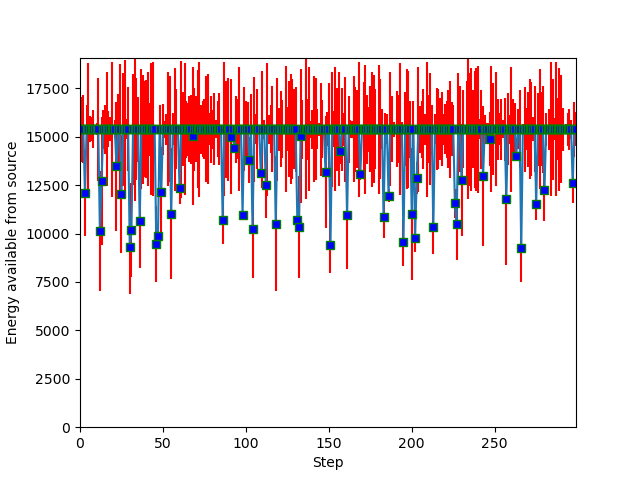
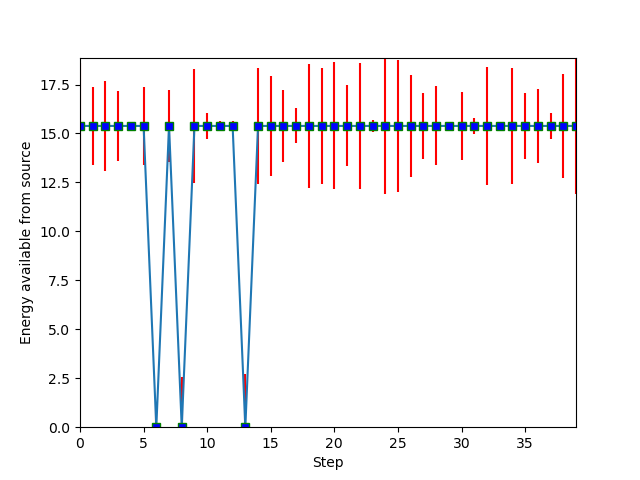
outage a funcionar

diff --git a/power_operative.py b/power_operative.py
@@ -150,7 +150,7 @@ class power_operative(geographic_agent.geographic_agent):
 					
 				#self.report_list_negotiated.append(self.report_list[1])
 			else:
-				redistribution = redistribute_energy()
+				redistribution = self.redistribute_energy()
 				#for i in sorted_by_utility:
 				#for ch in self.ch_list
 				#	ch, energy_wanted, utility= ch.negotiate_power_receive(energy_wanted)
@@ -176,11 +176,24 @@ class power_operative(geographic_agent.geographic_agent):
 					self.report_list_negotiated.append(i)
 
 			if len(self.report_list_negotiated) < 1:
-				aux = self.sorted_by_utility[0]
+				aux = [0,0,0,0,0]
+				count = 0
+				max = 0
+				min = float("inf")
+				maxid = 0
+				for i in self.sorted_by_utility:
+					if max < i[1] and min > i[4]:
+						maxid = i[0]
+						max = i[1]
+						min = i[4]
+
+
+				for i in self.sorted_by_utility[maxid]:
+					aux[count]= i
+					count+=1
+				
 				aux[3] = self.available_for_tick
 				self.report_list_negotiated.append(aux)
-
-			return 
 
 
 			pass
@@ -201,10 +214,10 @@ class power_operative(geographic_agent.geographic_agent):
 					self.available_for_tick -= proposal[3]
 					print("PO: gave "+ str(proposal[3])+" to CH "+str(proposal[0]))
 
-				# elif self.acumulated_energy >= self.report_list_negotiated[index][1]:
-				# 	self.ch_list[self.report_list_negotiated[0]].get_energy_for_step(self.report_list_negotiated[index][1])
-				# 	self.acumulated_energy -= self.report_list_negotiated[index][1]
-				# 	print("PO: gots like: "+ str(self.available_for_tick))
+				elif self.acumulated_energy >= proposal[1]:
+					self.ch_list[proposal[0]].get_energy_for_step(proposal[1])
+					self.acumulated_energy -= proposal[1]
+					print("PO: gots like: "+ str(self.available_for_tick))
 
 				else :
 					print("PO: gots no power brah..")
@@ -218,8 +231,8 @@ class power_operative(geographic_agent.geographic_agent):
 			pass 
 
 		def recieve_energy(self, energy):
+			
 			self.available_for_tick =  energy +self.acumulated_energy
-			print("EB give: "+ str( energy))
 			#self.intention = 'give'
 			self.act()
 			#pass # current power = new + accumulated (form PO)

diff --git a/energy_broker.py b/energy_broker.py
@@ -23,17 +23,22 @@ class energy_broker(geographic_agent.geographic_agent):
     def act(self):
         self.energy_available = self.total_energy_of_tick
         aux_is_outage = False
-        if self.simulation.current_step in self.step_of_disaster:
+        if len(self.step_of_disaster) > 0 and self.simulation.current_step in self.step_of_disaster:
             self.do_power_outage()
             self.simulation.map1.add_points_to_print((self.get_longitude(),self.get_latitude()),'k','2',100)
             aux_is_outage = True
-            self.concede_energy_to_po()
+
+
+            self.step_of_disaster.remove(self.simulation.current_step)
+            
+            
         elif self.simulation.current_step in self.step_of_redistribuition and  not aux_is_outage:
             self.simulation.map1.add_points_to_print((self.get_longitude(),self.get_latitude()),'r','2',100)
             self.do_power_redistribution()
-            self.concede_energy_to_po()
-        else:
-            self.concede_energy_to_po()
+            
+        self.concede_energy_to_po()
+
+        
             
         self.energy_history.append(self.energy_available)
            
@@ -51,7 +56,7 @@ class energy_broker(geographic_agent.geographic_agent):
         pass
 
     def concede_energy_to_po(self):
-        
+        print("EB give: "+ str( self.energy_available))
         self.power_operative.recieve_energy(self.energy_available)
         pass
 

diff --git a/settings.py b/settings.py
@@ -3,19 +3,19 @@ import random
 # SETTINGS #
 ############
 
-simulation_time = 300
-nr_vehicles = 40
-nr_stations = 20
-nr_priority_vehicles = 7 # random.choice(range(self.number_vehicles)) #7
-nr_disasters = 40
-nr_redistribution = 50
+simulation_time = 40
+nr_vehicles = 4
+nr_stations = 2
+nr_priority_vehicles = 2 # random.choice(range(self.number_vehicles)) #7
+nr_disasters =3
+nr_redistribution = 0
 
 draw_map = True #False #for way way better performance
 architecture = "N DA; N CH; 1 PO; 1 EB"
 
 max_source_flactuation = 1
 min_source_flactuation = 0.6
-standard_batery_size = 5000
+standard_batery_size = 50
 max_battery = 0.3 # treshold for charging
 cost_per_tick = 30 # used for stations
 total_energy_of_tick = (nr_vehicles/13)*standard_batery_size

diff --git a/charger_handler.py b/charger_handler.py
@@ -173,7 +173,7 @@ class charger_handler(geographic_agent.geographic_agent):
 	def get_energy_for_step(self, energy):
 		self.energy_available += energy
 		if self.energy_available > 0:
-			self.simulation.map1.add_points_to_print((self.get_longitude(),self.get_latitude()),'y','x',5)
+			self.simulation.map1.add_points_to_print((self.get_longitude(),self.get_latitude()),'y', 'v',20)
 		print('CH: Yay! I gots da energy! '+str(energy))
 
 	#def forcast_energy_spendure(self): #for vehicles waiting

diff --git a/simulation.py b/simulation.py
@@ -223,7 +223,6 @@ class simulation():
             self.prev_step = self.current_step
             gui.disp_time.setText(str(self.current_step))
             if self.current_step in self.step_of_disaster:
-                self.step_of_disaster.remove(self.current_step)
                 listToStr = ' '.join([str(elem) for elem in self.step_of_disaster])
                 gui.disp_outages.setText(str(self.number_disasters)+" next: "+listToStr)
 
